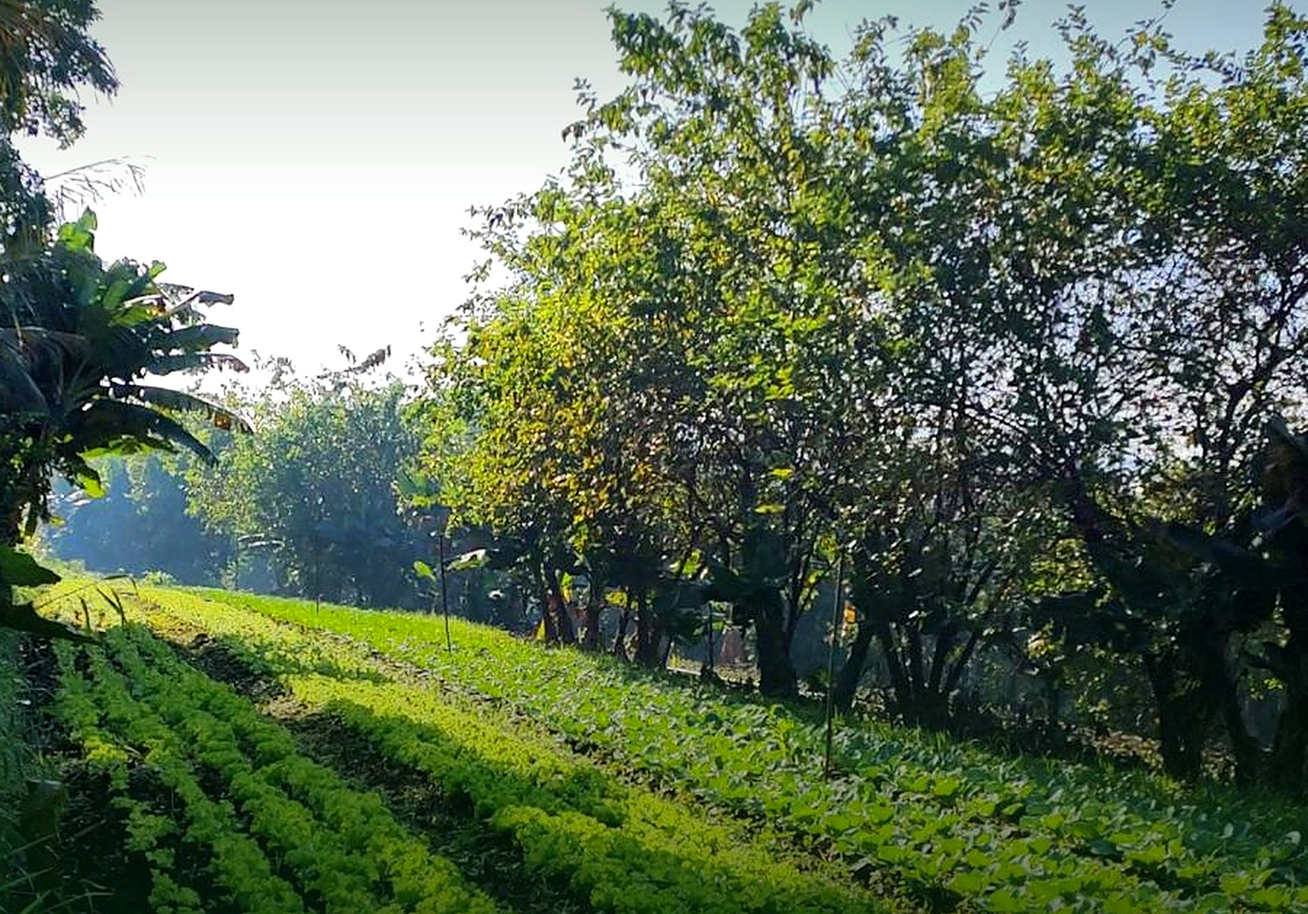
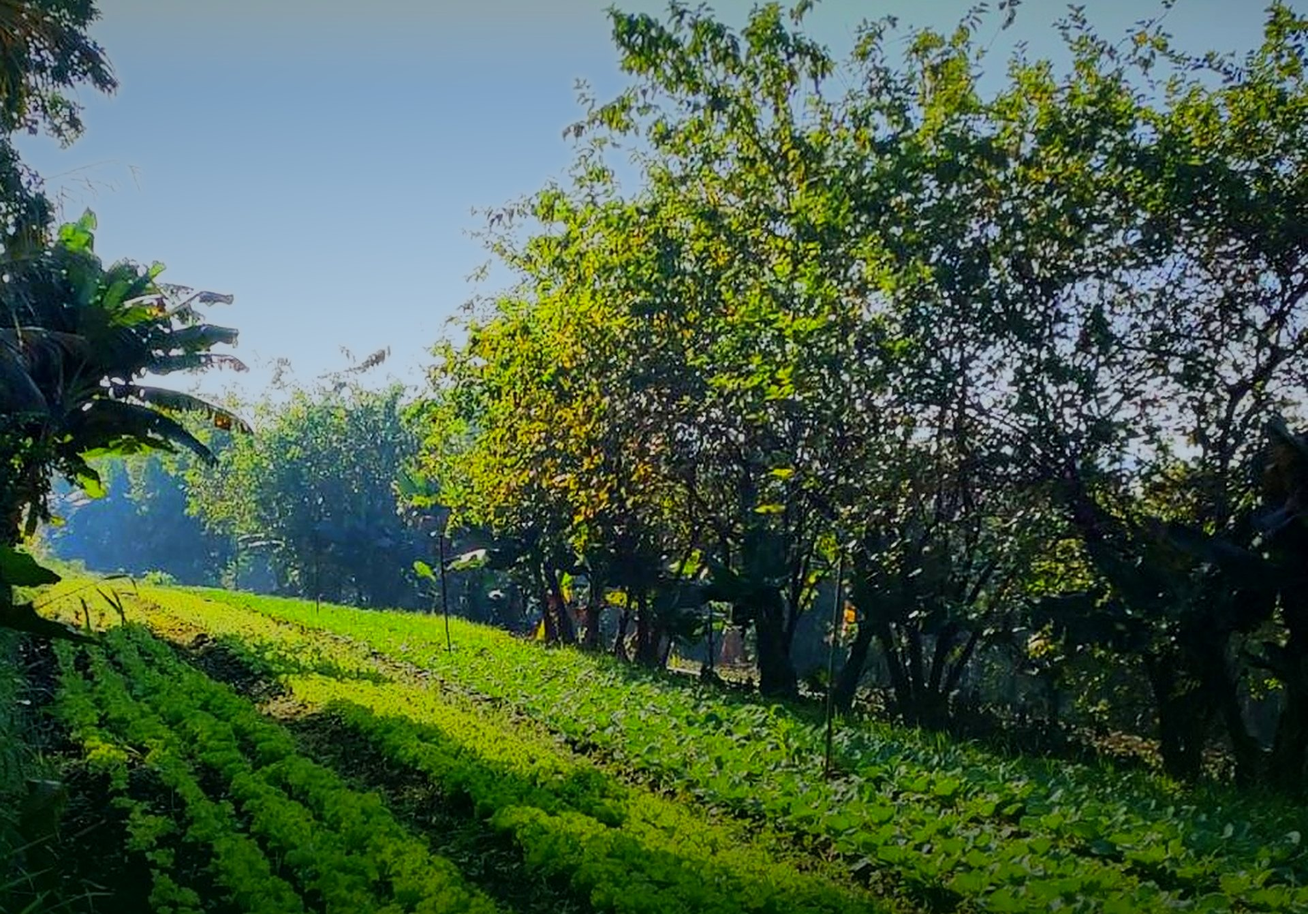
Foto da capa editada (céu azul, mais cor) e véu mais leve
Capa e cadastro: menos claridade sobre a foto; textos com halo claro
para seguir legíveis.

Claude-Session: https://claude.ai/code/session_018iTwJVztUMViZgpgtjq1qF

diff --git a/index.html b/index.html
@@ -47,10 +47,11 @@ a:focus-visible,button:focus-visible{outline:2px solid var(--focus);outline-offs
 /* véu: claro e quente no alto (texto escuro), verde-escuro embaixo (chips e fontes) */
 .capa::before{content:"";position:absolute;inset:0;z-index:-1;
   background:
-    radial-gradient(ellipse 48% 50% at 50% 38%, rgb(var(--creme) / .8) 0%, rgb(var(--creme) / .6) 50%, rgb(var(--creme) / 0) 100%),
-    linear-gradient(to bottom, rgb(var(--creme) / .4) 0%, rgb(255 214 150 / .18) 40%, rgb(var(--capa-fundo) / 0) 58%, rgb(var(--capa-fundo) / .35) 72%, rgb(var(--capa-fundo) / .85) 86%, rgb(var(--capa-fundo)) 100%)}
+    radial-gradient(ellipse 40% 46% at 50% 46%, rgb(var(--creme) / .72) 0%, rgb(var(--creme) / .5) 60%, rgb(var(--creme) / 0) 100%),
+    linear-gradient(to bottom, rgb(var(--creme) / .15) 0%, rgb(var(--creme) / .08) 40%, rgb(var(--capa-fundo) / 0) 58%, rgb(var(--capa-fundo) / .35) 72%, rgb(var(--capa-fundo) / .85) 86%, rgb(var(--capa-fundo)) 100%)}
 .capa .top b{color:var(--verde-escuro)}
-.capa .top span{color:#2b4a33}
+.capa .top span{color:#123d22;font-weight:600;text-shadow:0 0 10px rgb(250 244 226 / .95),0 0 3px rgb(250 244 226 / .9)}
+.capa .top b,.capa .sub,.capa .lede{text-shadow:0 0 14px rgb(250 244 226 / .9),0 0 4px rgb(250 244 226 / .8)}
 .capa .wrap{width:100%}
 .centro{flex:1;display:flex;flex-direction:column;align-items:center;text-align:center;padding-block:4px 28px}
 .capa .pill{font-family:var(--f-body);font-weight:600;font-size:13px;letter-spacing:.24em;text-transform:uppercase;color:var(--verde-escuro);background:rgb(214 234 196 / .9);border:1px solid rgb(18 61 34 / .15);padding:9px 24px;border-radius:999px}
@@ -61,7 +62,7 @@ h1{font-family:var(--f-serif);font-size:clamp(46px,7.4vw,96px);font-weight:700;l
 h1 .l2{display:block;font-style:italic;font-weight:700;color:var(--verde-folha);font-variation-settings:"SOFT" 0,"WONK" 0}
 .sub{font-family:var(--f-serif);font-weight:700;font-size:clamp(22px,3vw,38px);line-height:1.15;color:var(--verde-escuro);margin-top:8px;text-wrap:balance}
 .traco{width:58px;height:4px;border-radius:4px;background:var(--sol);margin-top:20px}
-.lede{font-size:clamp(17px,1.6vw,20px);color:#1f3526;max-width:58ch;margin-top:18px}
+.lede{font-size:clamp(17px,1.6vw,20px);color:#132a1b;font-weight:600;max-width:58ch;margin-top:18px}
 .busca{display:flex;align-items:center;gap:10px;width:min(740px,100%);margin-top:30px;background:#fff;border-radius:999px;padding:7px 7px 7px 24px;box-shadow:0 18px 40px -16px rgb(0 0 0 / .55)}
 .busca svg{width:20px;height:20px;flex:none;color:#3e4f43}
 .busca input{flex:1;min-width:0;border:0;background:transparent;font:17px var(--f-body);color:#1d2a22;padding:11px 0}
@@ -83,7 +84,7 @@ h1 .l2{display:block;font-style:italic;font-weight:700;color:var(--verde-folha);
 @media (max-width:640px){
   .capa .pill{letter-spacing:.12em;font-size:11px;padding:8px 14px}
   .capa{background-position:30% 60%;min-height:auto}
-  .capa::before{background:linear-gradient(to bottom, rgb(var(--creme) / .82) 0%, rgb(var(--creme) / .72) 45%, rgb(var(--creme) / .35) 60%, rgb(var(--capa-fundo) / .55) 72%, rgb(var(--capa-fundo) / .92) 86%, rgb(var(--capa-fundo)) 100%)}
+  .capa::before{background:linear-gradient(to bottom, rgb(var(--creme) / .62) 0%, rgb(var(--creme) / .58) 45%, rgb(var(--creme) / .3) 60%, rgb(var(--capa-fundo) / .55) 72%, rgb(var(--capa-fundo) / .92) 86%, rgb(var(--capa-fundo)) 100%)}
   .busca{padding-left:16px}.busca button{padding:12px 16px}.busca button svg{display:none}
   .chips a{font-size:15px}
   .fontes-linha{letter-spacing:.14em;gap:6px 10px;font-size:13px;padding-block:24px 8px}

diff --git a/cadastro/index.html b/cadastro/index.html
@@ -39,12 +39,12 @@ a{color:var(--green)}
 
 .faixa{position:relative;color:#123d22;background:#0c2a14 url("../img/foto_capa.jpg") center 60%/cover no-repeat;isolation:isolate;text-align:center}
 .faixa::before{content:"";position:absolute;inset:0;z-index:-1;background:
-  radial-gradient(ellipse 55% 60% at 50% 45%, rgb(250 244 226 / .82) 0%, rgb(250 244 226 / .6) 50%, rgb(250 244 226 / 0) 100%),
-  linear-gradient(to bottom, rgb(250 244 226 / .45) 0%, rgb(255 214 150 / .18) 55%, rgb(12 42 20 / .2) 78%, rgb(12 42 20 / .6) 100%)}
+  radial-gradient(ellipse 55% 60% at 50% 45%, rgb(250 244 226 / .72) 0%, rgb(250 244 226 / .45) 50%, rgb(250 244 226 / 0) 100%),
+  linear-gradient(to bottom, rgb(250 244 226 / .15) 0%, rgb(250 244 226 / .05) 55%, rgb(12 42 20 / .2) 78%, rgb(12 42 20 / .6) 100%)}
 .faixa .top{display:flex;justify-content:space-between;gap:12px;padding-block:18px;font-size:15px;text-align:left}
 .faixa .top a{color:#123d22;text-decoration:none;font-weight:600}
 .faixa .top a:hover{text-decoration:underline}
-.faixa .top span{color:#2b4a33}
+.faixa .top span{color:#123d22;font-weight:600}
 .faixa .tit{display:flex;flex-direction:column;align-items:center;padding-block:6px 40px}
 .pill{display:inline-block;font-weight:600;font-size:12px;letter-spacing:.22em;text-transform:uppercase;color:#123d22;background:rgb(214 234 196 / .9);border:1px solid rgb(18 61 34 / .15);padding:8px 20px;border-radius:999px}
 .selo{display:flex;align-items:center;gap:12px;margin-top:16px}
@@ -53,7 +53,8 @@ a{color:var(--green)}
 h1{font-family:var(--f-serif);font-size:clamp(36px,5.6vw,64px);font-weight:700;line-height:1;letter-spacing:-.01em;color:#123d22;margin-top:6px;text-wrap:balance}
 h1 em{display:block;font-weight:700;color:#5e9a2f}
 .traco{width:52px;height:4px;border-radius:4px;background:#e8b21c;margin-top:18px}
-.faixa p.lede{margin-top:14px;max-width:56ch;color:#1f3526}
+.faixa p.lede{margin-top:14px;max-width:56ch;color:#132a1b;font-weight:600;text-shadow:0 0 14px rgb(250 244 226 / .9),0 0 4px rgb(250 244 226 / .8)}
+.faixa .top a,.faixa .top span{text-shadow:0 0 10px rgb(250 244 226 / .95),0 0 3px rgb(250 244 226 / .9)}
 .faixa .base{position:relative;height:56px;background:#123d22}
 .faixa .base svg{position:absolute;inset:0;width:100%;height:100%}
 .credito{position:absolute;right:max(16px,env(safe-area-inset-right,0px));bottom:0;line-height:56px;font-size:12px;color:rgb(255 255 255 / .8);margin:0}
@@ -90,7 +91,7 @@ button[disabled]{opacity:.6;cursor:wait}
 .ok p{margin-top:8px;color:var(--muted)}
 .ok .acoes{display:flex;flex-wrap:wrap;gap:16px;margin-top:16px;font-weight:600}
 @media (max-width:560px){.duas{grid-template-columns:minmax(0,1fr)}fieldset{padding:18px 16px 4px}}
-@media (max-width:560px){.faixa h1{font-size:34px}.pill{letter-spacing:.14em;font-size:11px}.faixa::before{background:linear-gradient(to bottom, rgb(250 244 226 / .82) 0%, rgb(250 244 226 / .74) 70%, rgb(250 244 226 / .5) 100%)}.credito{position:static;line-height:1;padding-top:30px;text-align:center}}
+@media (max-width:560px){.faixa h1{font-size:34px}.pill{letter-spacing:.14em;font-size:11px}.faixa::before{background:linear-gradient(to bottom, rgb(250 244 226 / .62) 0%, rgb(250 244 226 / .58) 70%, rgb(250 244 226 / .4) 100%)}.credito{position:static;line-height:1;padding-top:30px;text-align:center}}
 @media (prefers-reduced-motion:reduce){.chips span{transition:none}}
 </style>
 </head>
